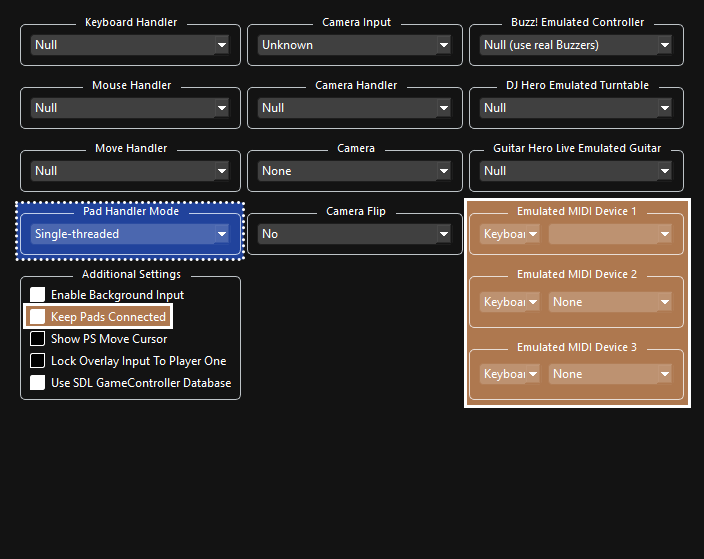
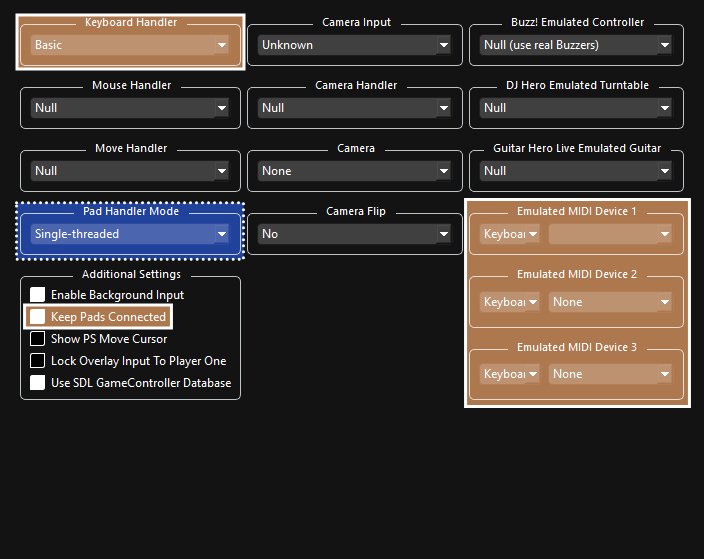
this PR has the flu, just like me
bring me blankie pls.

- I/O now tells people to enable Keyboard Handler for the sexy ass search

- I/O Custom Config image has been updated to reflect the new default.

- All custom configurations by default will enable the Keyboard Handler to Basic.

- Updated the PS3 Customs Guide, which had some parts that referenced the Google Docs layout.

- Add potato config. Same as Minimum, except using OpenGL. Hid it at the bottom for now until we have more testing data.

Images by Aloquendiar and Sulfrix.

Changed region(s): [[0.0, 0.0, 0.375, 0.1521], [0.0312, 0.5778, 0.2188, 0.6082]]

diff --git a/pages/espanol/cust-config/main.md b/pages/espanol/cust-config/main.md
@@ -145,21 +145,22 @@ Para hacer todo mas facil, todos los ajustes han sido colorados.
 <!-- IO Start -->
 <p><strong>Asegúrate que tu instrumento de MIDI este conectado.</strong><br>
 <strong>Haz la ventana mas grande si no puedes leer las opciones.</strong></p>
-<p><img src="https://rb3pc.milohax.org/images/cust/io.png" alt="Una captura de la configuración personalizada de I/O de Rock Band 3, mostrando &quot;Emulated MIDI Devices&quot;, &quot;device type&quot; y &quot;device selection&quot; resaltados en cuadros bronceados con contornos solidos, y &quot;Pad Handler Mode&quot; y &quot;Keep Pads Connected&quot; en un cuadro azul con contorno punteado." title="I/O"></p>
+<p><img src="https://rb3pc.milohax.org/images/cust/io.png" alt="Una captura de la configuración personalizada de I/O de Rock Band 3, mostrando &quot;Pad Handler&quot;, Emulated MIDI Devices&quot;, &quot;device type&quot; y &quot;device selection&quot; resaltados en cuadros bronceados con contornos solidos, y &quot;Pad Handler Mode&quot; y &quot;Keep Pads Connected&quot; en un cuadro azul con contorno punteado." title="I/O" target="_blank" rel="noopener noreferrer"></p>
 <ul>
 <li>
-<p><img src="https://rb3pc.milohax.org/images/cust/smallblue.png" alt="Un cuadro azul con contorno punteado." title="Cuadro azul"> <strong>Ajuste dependiendo de tu PC</strong>:</p>
+<p><img src="https://rb3pc.milohax.org/images/cust/smallblue.png" alt="Un cuadro azul con contorno punteado." title="Cuadro azul" target="_blank" rel="noopener noreferrer"> <strong>Ajuste dependiendo de tu PC</strong>:</p>
 <ul>
 <li><strong>Cambia “<code>Pad Handler Mode</code>”</strong> (Modo de manejar controladores) <strong>a “<code>Multi-threaded</code>”</strong> si tienes una CPU con mas de 12 hilos/núcleos.</li>
 </ul>
 </li>
 <li>
-<p><img src="https://rb3pc.milohax.org/images/cust/smalltan.png" alt="Un cuadrado bronceado." title="Cuadrado bronceado">: <strong>Para jugadores de teclados MIDI, guitarra Pro, y baterías MIDI</strong>:</p>
+<p><img src="https://rb3pc.milohax.org/images/cust/smalltan.png" alt="Un cuadrado bronceado." title="Cuadrado bronceado" target="_blank" rel="noopener noreferrer">: <strong>Para jugadores de teclados MIDI, guitarra Pro, y baterías MIDI</strong>:</p>
 <ul>
-<li>🎹 <strong><a href="https://rb3pc.milohax.org/ctrls_keys_midi_es" target="_blank">[Jugadores de teclado]</a>: Deja el “<code>Emulated MIDI type</code>” (Tipo de MIDI emulado) en “<code>Keyboard</code>” (teclado) y selecciona tu teclado o interfaz MIDI en el menú desplegable junto a él</strong>.</li>
-<li>🎸 <strong><a href="https://rb3pc.milohax.org/ctrls_protar_midi_es" target="_blank">[Jugadores de Guitarra Pro]</a>: Cambia el “<code>Emulated MIDI type</code>” (Tipo de MIDI emulado) de “<code>Keyboard</code>” (teclado) a “<code>Guitar (17 Frets)</code>”</strong> (guitarra (17 trastes)) <strong>si tienes una guitarra Pro Mustang, o “<code>Guitar (22 Frets)</code>”</strong> (guitarra (22 trastes)) <strong>si tienes una guitarra Pro Squier, luego selecciona tu interfaz MIDI a USB en el menú desplegable junto a él</strong>.</li>
-<li>🥁 <strong><a href="https://rb3pc.milohax.org/ctrls_drums_midi_es" target="_blank">[Jugadores con Baterías MIDI]</a>: Cambia el “<code>Emulated MIDI type</code>” (Tipo de MIDI emulado) de “<code>Keyboard</code>” (teclado) a “<code>Drums</code>” (batería), y selecciona tu batería o interfaz MIDI en el menú desplegable junto a él</strong>.</li>
-<li>Si necesitas mas ayuda, dale otra visita a la <a href="https://rb3pc.milohax.org/ctrls_es" target="_blank">[pagina de instrumentos]</a>.</li>
+<li>🎹 <strong>Cambia “<code>Keyboard Handler</code>” a “<code>Basic</code>”</strong> para poder buscar con dentro de la colección de música en Rock Band 3 Deluxe.</li>
+<li>🎹 <strong><a href="https://rb3pc.milohax.org/ctrls_keys_midi_es" target="_blank" rel="noopener noreferrer">[Jugadores de teclado]</a>: Deja el “<code>Emulated MIDI type</code>” (Tipo de MIDI emulado) en “<code>Keyboard</code>” (teclado) y selecciona tu teclado o interfaz MIDI en el menú desplegable junto a él</strong>.</li>
+<li>🎸 <strong><a href="https://rb3pc.milohax.org/ctrls_protar_midi_es" target="_blank" rel="noopener noreferrer">[Jugadores de Guitarra Pro]</a>: Cambia el “<code>Emulated MIDI type</code>” (Tipo de MIDI emulado) de “<code>Keyboard</code>” (teclado) a “<code>Guitar (17 Frets)</code>”</strong> (guitarra (17 trastes)) <strong>si tienes una guitarra Pro Mustang, o “<code>Guitar (22 Frets)</code>”</strong> (guitarra (22 trastes)) <strong>si tienes una guitarra Pro Squier, luego selecciona tu interfaz MIDI a USB en el menú desplegable junto a él</strong>.</li>
+<li>🥁 <strong><a href="https://rb3pc.milohax.org/ctrls_drums_midi_es" target="_blank" rel="noopener noreferrer">[Jugadores con Baterías MIDI]</a>: Cambia el “<code>Emulated MIDI type</code>” (Tipo de MIDI emulado) de “<code>Keyboard</code>” (teclado) a “<code>Drums</code>” (batería), y selecciona tu batería o interfaz MIDI en el menú desplegable junto a él</strong>.</li>
+<li>Si necesitas mas ayuda, dale otra visita a la <a href="https://rb3pc.milohax.org/ctrls_es" target="_blank" rel="noopener noreferrer">[pagina de instrumentos]</a>.</li>
 </ul>
 </li>
 </ul>

diff --git a/pages/english/cust-config/main.md b/pages/english/cust-config/main.md
@@ -144,22 +144,23 @@ To make things easier, all configuration tweaks have been color coded.
 <!-- IO Start -->
 <p><strong>Make sure your MIDI instrument is connected.</strong><br>
 <strong>YOU MAY HAVE TO MAKE THE WINDOW WIDER TO READ THE OPTIONS!</strong></p>
-<p><img src="https://rb3pc.milohax.org/images/cust/io.png" alt="A screenshot of Rock Band 3's I/O custom settings, showing &quot;Emulated MIDI Devices&quot;, &quot;device type&quot;, and &quot;device selection&quot; highlighted in tan with a solid outline, and &quot;Pad Handler Mode&quot; and &quot;Keep Pads Connected&quot; highlighted in blue with a dotted outline." title="I/O"></p>
+<p><img src="https://rb3pc.milohax.org/images/cust/io.png" alt="A screenshot of Rock Band 3's I/O custom settings, showing &quot;Keyboard Handler&quot;, Emulated MIDI Devices&quot;, &quot;device type&quot;, and &quot;device selection&quot; highlighted in tan with a solid outline, and &quot;Pad Handler Mode&quot; and &quot;Keep Pads Connected&quot; highlighted in blue with a dotted outline." title="I/O" target="_blank" rel="noopener noreferrer"></p>
 <ul>
 <li>
-<p><img src="https://rb3pc.milohax.org/images/cust/smallblue.png" alt="A blue square with a dotted outline." title="Tan Square"> <strong>Performance Tweaks</strong>:</p>
+<p><img src="https://rb3pc.milohax.org/images/cust/smallblue.png" alt="A blue square with a dotted outline." title="Tan Square" target="_blank" rel="noopener noreferrer"> <strong>Performance Tweaks</strong>:</p>
 <ul>
 <li><strong>Change “<code>Pad Handler Mode</code>” to “<code>Multi-threaded</code>”</strong> - May help with thread distribution, which improves performance.</li>
 <li><strong>Enable “<code>Keep Pads Connected</code>”</strong> - This can help fix a problem with certain instrument controllers softlocking the game when RPCS3 interfaces, such as the RPCN invites, come up.</li>
 </ul>
 </li>
 <li>
-<p><img src="https://rb3pc.milohax.org/images/cust/smalltan.png" alt="A tan square with a solid outline." title="Tan Square"> <strong>Recommended</strong>:</p>
+<p><img src="https://rb3pc.milohax.org/images/cust/smalltan.png" alt="A tan square with a solid outline." title="Tan Square" target="_blank" rel="noopener noreferrer"> <strong>Recommended</strong>:</p>
 <ul>
-<li>🎹 <strong><a href="https://rb3pc.milohax.org/ctrls_keys_midi" target="_blank">[MIDI Keyboard Players]</a>: Leave your “<code>Emulated MIDI type</code>” on “<code>Keyboard</code>” and select your keyboard or MIDI interface in the drop-down menu next to it</strong>.</li>
-<li>🎸 <strong><a href="https://rb3pc.milohax.org/ctrls_protar_midi" target="_blank">[MIDI Pro Guitar Players]</a>: Change your “<code>Emulated MIDI type</code>” from “<code>Keyboard</code>” to “<code>Guitar (17 Frets)</code>” if you have a Mustang Pro Guitar, or “<code>Guitar (22 Frets)</code>” if you have a Squier Pro Guitar, then select your MIDI to USB interface in the drop-down menu next to it</strong>.</li>
-<li>🥁 <strong><a href="https://rb3pc.milohax.org/ctrls_drums_midi" target="_blank">[MIDI Pro Drums Players]</a>: Change your “<code>Emulated MIDI type</code>” from “<code>Keyboard</code>” to “<code>Drums</code>”, then select your MIDI Drum Kit or MIDI to USB interface in the drop-down menu next to it</strong>.</li>
-<li>Revisit the <a href="https://rb3pc.milohax.org/ctrls" target="_blank">[Controllers page]</a> if you need help.</li>
+<li><strong>Change “<code>Keyboard Handler</code>” to “<code>Basic</code>”</strong> to use features such as searching in the song library on Rock Band 3 Deluxe.</li>
+<li>🎹 <strong><a href="https://rb3pc.milohax.org/ctrls_keys_midi" target="_blank" rel="noopener noreferrer">[MIDI Keyboard Players]</a>: Leave your “<code>Emulated MIDI type</code>” on “<code>Keyboard</code>” and select your keyboard or MIDI interface in the drop-down menu next to it</strong>.</li>
+<li>🎸 <strong><a href="https://rb3pc.milohax.org/ctrls_protar_midi" target="_blank" rel="noopener noreferrer">[MIDI Pro Guitar Players]</a>: Change your “<code>Emulated MIDI type</code>” from “<code>Keyboard</code>” to “<code>Guitar (17 Frets)</code>” if you have a Mustang Pro Guitar, or “<code>Guitar (22 Frets)</code>” if you have a Squier Pro Guitar, then select your MIDI to USB interface in the drop-down menu next to it</strong>.</li>
+<li>🥁 <strong><a href="https://rb3pc.milohax.org/ctrls_drums_midi" target="_blank" rel="noopener noreferrer">[MIDI Pro Drums Players]</a>: Change your “<code>Emulated MIDI type</code>” from “<code>Keyboard</code>” to “<code>Drums</code>”, then select your MIDI Drum Kit or MIDI to USB interface in the drop-down menu next to it</strong>.</li>
+<li>Revisit the <a href="https://rb3pc.milohax.org/ctrls" target="_blank" rel="noopener noreferrer">[Controllers page]</a> if you need help.</li>
 </ul>
 </li>
 </ul>

diff --git a/pages/espanol/cust-config/io.md b/pages/espanol/cust-config/io.md
@@ -12,12 +12,13 @@ weight: 5
 **Asegúrate que tu instrumento de MIDI este conectado.**
 **Haz la ventana mas grande si no puedes leer las opciones.**
 
-![Una captura de la configuración personalizada de I/O de Rock Band 3, mostrando "Emulated MIDI Devices", "device type" y "device selection" resaltados en cuadros bronceados con contornos solidos, y "Pad Handler Mode" y "Keep Pads Connected" en un cuadro azul con contorno punteado.](https://rb3pc.milohax.org/images/cust/io.png "I/O")
+![Una captura de la configuración personalizada de I/O de Rock Band 3, mostrando "Pad Handler", Emulated MIDI Devices", "device type" y "device selection" resaltados en cuadros bronceados con contornos solidos, y "Pad Handler Mode" y "Keep Pads Connected" en un cuadro azul con contorno punteado.](https://rb3pc.milohax.org/images/cust/io.png "I/O")
 
 * ![Un cuadro azul con contorno punteado.](https://rb3pc.milohax.org/images/cust/smallblue.png "Cuadro azul") **Ajuste dependiendo de tu PC**: 
 	* **Cambia "`Pad Handler Mode`"** (Modo de manejar controladores) **a "`Multi-threaded`"** si tienes una CPU con mas de 12 hilos/núcleos.
 
 * ![Un cuadrado bronceado.](https://rb3pc.milohax.org/images/cust/smalltan.png "Cuadrado bronceado"): **Para jugadores de teclados MIDI, guitarra Pro, y baterías MIDI**:
+	* 🎹 **Cambia "`Keyboard Handler`" a "`Basic`"** para poder buscar con dentro de la colección de música en Rock Band 3 Deluxe.
 	* 🎹 **[[Jugadores de teclado]](https://rb3pc.milohax.org/ctrls_keys_midi_es){:target="_blank"}: Deja el "`Emulated MIDI type`" (Tipo de MIDI emulado) en "`Keyboard`" (teclado) y selecciona tu teclado o interfaz MIDI en el menú desplegable junto a él**.
 	* 🎸 **[[Jugadores de Guitarra Pro]](https://rb3pc.milohax.org/ctrls_protar_midi_es){:target="_blank"}: Cambia el "`Emulated MIDI type`" (Tipo de MIDI emulado) de "`Keyboard`" (teclado) a "`Guitar (17 Frets)`"** (guitarra (17 trastes)) **si tienes una guitarra Pro Mustang, o "`Guitar (22 Frets)`"** (guitarra (22 trastes)) **si tienes una guitarra Pro Squier, luego selecciona tu interfaz MIDI a USB en el menú desplegable junto a él**.
 	* 🥁 **[[Jugadores con Baterías MIDI]](https://rb3pc.milohax.org/ctrls_drums_midi_es){:target="_blank"}: Cambia el "`Emulated MIDI type`" (Tipo de MIDI emulado) de "`Keyboard`" (teclado) a "`Drums`" (batería), y selecciona tu batería o interfaz MIDI en el menú desplegable junto a él**.

diff --git a/pages/english/cust-config/io.md b/pages/english/cust-config/io.md
@@ -12,13 +12,14 @@ weight: 5
 **Make sure your MIDI instrument is connected.**
 **YOU MAY HAVE TO MAKE THE WINDOW WIDER TO READ THE OPTIONS!**
 
-![A screenshot of Rock Band 3's I/O custom settings, showing "Emulated MIDI Devices", "device type", and "device selection" highlighted in tan with a solid outline, and "Pad Handler Mode" and "Keep Pads Connected" highlighted in blue with a dotted outline.](https://rb3pc.milohax.org/images/cust/io.png "I/O")
+![A screenshot of Rock Band 3's I/O custom settings, showing "Keyboard Handler", Emulated MIDI Devices", "device type", and "device selection" highlighted in tan with a solid outline, and "Pad Handler Mode" and "Keep Pads Connected" highlighted in blue with a dotted outline.](https://rb3pc.milohax.org/images/cust/io.png "I/O")
 
 * ![A blue square with a dotted outline.](https://rb3pc.milohax.org/images/cust/smallblue.png "Tan Square") **Performance Tweaks**: 
 	* **Change "`Pad Handler Mode`" to "`Multi-threaded`"** - May help with thread distribution, which improves performance.
 	* **Enable "`Keep Pads Connected`"** - This can help fix a problem with certain instrument controllers softlocking the game when RPCS3 interfaces, such as the RPCN invites, come up.
 
 * ![A tan square with a solid outline.](https://rb3pc.milohax.org/images/cust/smalltan.png "Tan Square") **Recommended**: 
+	* **Change "`Keyboard Handler`" to "`Basic`"** to use features such as searching in the song library on Rock Band 3 Deluxe.
 	* 🎹 **[[MIDI Keyboard Players]](https://rb3pc.milohax.org/ctrls_keys_midi){:target="_blank"}: Leave your "`Emulated MIDI type`" on "`Keyboard`" and select your keyboard or MIDI interface in the drop-down menu next to it**.
 	* 🎸 **[[MIDI Pro Guitar Players]](https://rb3pc.milohax.org/ctrls_protar_midi){:target="_blank"}: Change your "`Emulated MIDI type`" from "`Keyboard`" to "`Guitar (17 Frets)`" if you have a Mustang Pro Guitar, or "`Guitar (22 Frets)`" if you have a Squier Pro Guitar, then select your MIDI to USB interface in the drop-down menu next to it**.
 	* 🥁 **[[MIDI Pro Drums Players]](https://rb3pc.milohax.org/ctrls_drums_midi){:target="_blank"}: Change your "`Emulated MIDI type`" from "`Keyboard`" to "`Drums`", then select your MIDI Drum Kit or MIDI to USB interface in the drop-down menu next to it**.

diff --git a/pages/espanol/getting-started/5 quick_config.md b/pages/espanol/getting-started/5 quick_config.md
@@ -16,7 +16,9 @@ Ahora que el juego esta en la biblioteca de RPCS3, vamos a descargar unos archiv
 Abajo están los archivos para instalar una configuración rápida. Descarga lo que queda bien con tu computadora.
 
 * [[Configuración recomendada]](https://rb3pc.milohax.org/downloads/customconfigs/recommended_es.zip){:target="_blank"} - Esta configuración es para computadoras que son igual (o mejor) que [los requisitos recomendados](https://rb3pc.milohax.org/gs_reqs_es#una-computadora){:target="_blank"}.
+    * [[Configuración recomendada (Ingles)]](https://rb3pc.milohax.org/downloads/customconfigs/recommended.zip){:target="_blank"} - Lo mismo que arriba pero el juego estará en Ingles.
 * [[Configuración mínima]](https://rb3pc.milohax.org/downloads/customconfigs/minimum_es.zip){:target="_blank"} - Esta configuración es para computadoras que son igual (o mejor) que [los requisitos mínimos](https://rb3pc.milohax.org/gs_reqs_es#una-computadora){:target="_blank"}.
+    * [[Configuración mínima (Ingles)]](https://rb3pc.milohax.org/downloads/customconfigs/minimum.zip){:target="_blank"} - Lo mismo que arriba pero el juego estará en Ingles.
 
 ## Como Aplicar El Perfil
 Para usar estos archivos, **haz click en las configuración que quieres bajar y luego extrae los archivos en la carpeta donde esta RPCS3**. Las carpetas se combinaran si lo hiciste bien.
@@ -139,6 +141,10 @@ Ahora solo falta:
                     <!-- /.panel -->
 </div>
 <!-- /.panel-group -->
+
+## Configuración de baja gama experimental
+* [[Configuración de baja gama]](https://rb3pc.milohax.org/downloads/customconfigs/potato_es.zip){:target="_blank"} - Esta configuración es la misma que la mínima pero usa OpenGL, diseñada para computadoras que tengan gráficas integradas. Combina esta configuración con fondos negros y sin escenarios para ver si tu computadora puede con Rock Band 3 en RPCS3. **¡No se recomienda al menos que quieras probar!**
+    * [[Configuración de baja gama (Ingles)]](https://rb3pc.milohax.org/downloads/customconfigs/potato.zip){:target="_blank"} - Lo mismo que arriba pero el juego estará en Ingles.
 
 {% include custom/series_empezando_next.html %}
 

diff --git a/pages/espanol/customs/problemas.md b/pages/espanol/customs/problemas.md
@@ -21,15 +21,7 @@ Puedes resolver este problema con Nautilus.
 
 ### Arreglar los IDs antes de instalar
 
-1\. Abre Nautilus y elije `Batch DTA Processor`.   
-![Una captura de Nautilus. El cursor esta sobre "Batch Processor."](https://rb3pc.milohax.org/images/xtra/customs/nautilushomebatchproc.png "Nautilus")
-
-2\. Arrastra cualquier archivo CON de tu carpeta a Nautilus y **asegúrate que `Automatically change alphanumeric song IDs` esté activado.**  
-Haz click en `Begin` para procesar todos los archivos CON seleccionados.  
-Cuando termine, cierra `Batch Processor`.  
-![Una animación de Nautilus' Batch DTA Processor. Las canciones son arrastradas a la pantalla y luego empiezan a hacer procesadas después de presionar "Begin."](https://rb3pc.milohax.org/images/xtra/customs/nautilusbatchfix.gif "Batch DTA Processor")
-
-3\. Cuando termine, puedes cerrar `Batch Processor` y continuar con la cuarta parte del [[tutorial principal]](https://rb3pc.milohax.org/customs_360toPS3_es#4){:target="_blank"}.
+1\. Simplemente sigue el [[tutorial de Xbox 360 a PS3]](https://rb3pc.milohax.org/customs_360toPS3_es){:target="_blank"}. Esta diseñado para evitar que pase esto.
 
 ### Arreglando IDs de customs que ya están instaladas
 

diff --git a/pages/english/customs/troubleshooting.md b/pages/english/customs/troubleshooting.md
@@ -19,14 +19,7 @@ You can solve this issue by correcting the IDs with Nautilus.
 
 ### Fixing IDs Before Installing
 
-1\. Open Nautilus and select `Batch DTA Processor`.   
-![A screenshot of Nautilus. A cursor hovers over "Batch Processor."](https://rb3pc.milohax.org/images/xtra/customs/nautilushomebatchproc.png "Nautilus")
-
-2\. Drag and drop any CON in your folder of customs you want to install then click `Begin` to start processing the entire folder.  
-**Make sure that `Automatically change alphanumeric songs IDs to unique numeric IDs` is enabled!**  
-![A GIF of Nautilus' Batch DTA Processor. Songs are being dragged then dropped into it then, after "Begin" is click, it starts processing.](https://rb3pc.milohax.org/images/xtra/customs/nautilusbatchfix.gif "Batch DTA Processor")
-
-3\. After it's done, you can close out `Batch DTA Processor` and go back to step 4 of [[the main tutorial]](https://rb3pc.milohax.org/customs_360toPS3#4){:target="_blank"}.
+1\. Simply follow the [[the main Xbox 360 to PS3 guide]](https://rb3pc.milohax.org/customs_360toPS3#4){:target="_blank"}. It preemptively takes care of this issue.
 
 ### Fixing IDs of Installed Songs
 

diff --git a/pages/espanol/customs/CHaPS3.md b/pages/espanol/customs/CHaPS3.md
@@ -12,7 +12,7 @@ toc: false
 
 <span style="font-size:x-large;">ADVERTENCIA - LEE ESTO ANTES DE TODO</span>
 
-¡Solo has esto como **último recurso** y si las canciones que quieres solo existen para juegos que son clones (Clone Hero/YARG). Si la canción originalmente existió en un formato para Rock Band (de manera oficial o por custom), **usa esa versión antes de todo y lee la guía principal**.
+¡Solo has esto como **último recurso** y si las canciones que quieres solo existen para juegos que son clones (Clone Hero/YARG). Si la canción originalmente existió en un formato para Rock Band (de manera oficial o por custom), **usa esa versión antes de todo y lee [[la guía principal]](https://rb3pc.milohax.org/customs_CHtoPS3_es)**.
 
 Toma esto en cuenta porque **si no lo haces, la canción va a perder muchos datos**, como:
 * Incompatibilidad con mejoras/actualizaciones por Rock Band 3 Deluxe

diff --git a/pages/english/customs/CHtoPS3.md b/pages/english/customs/CHtoPS3.md
@@ -12,7 +12,7 @@ toc: false
 
 <span style="font-size:x-large;">DISCLAIMER - READ BEFORE CONTINUING</span>
 
-Do this as a **last resort** if the charts you want to convert were specifically made for PC clone games (Clone Hero/YARG). If the chart originally existed in RB format, whether it be official DLC or customs, **get that first and follow the main guide at the top!**
+Do this as a **last resort** if the charts you want to convert were specifically made for PC clone games (Clone Hero/YARG). If the chart originally existed in RB format, whether it be official DLC or customs, **get that first and follow [[the Xbox 360 to PS3 guide]](https://rb3pc.milohax.org/customs_CHtoPS3)!**
 
 **Failure to do so will result in lost metadata** associated with the original song package, including:
 * Incompatibility with any song upgrades in RB3DX

diff --git a/pages/english/getting-started/5 quick_config.md b/pages/english/getting-started/5 quick_config.md
@@ -129,6 +129,9 @@ The only things left to do are:
 </div>
 <!-- /.panel-group -->
 
+## Experimental Low End Configuration
+* [[Potato Settings]](https://rb3pc.milohax.org/downloads/customconfigs/potato.zip){:target="_blank"} - The same as the minimum configuration but using OpenGL, meant for computers with integrated graphics. Double this up with black backgrounds and your potato might boot Rock Band 3 on RPCS3. **This is not recommended!**
+
 {% include custom/series_getting_started_next.html %}
 
 {% include links.html %}
